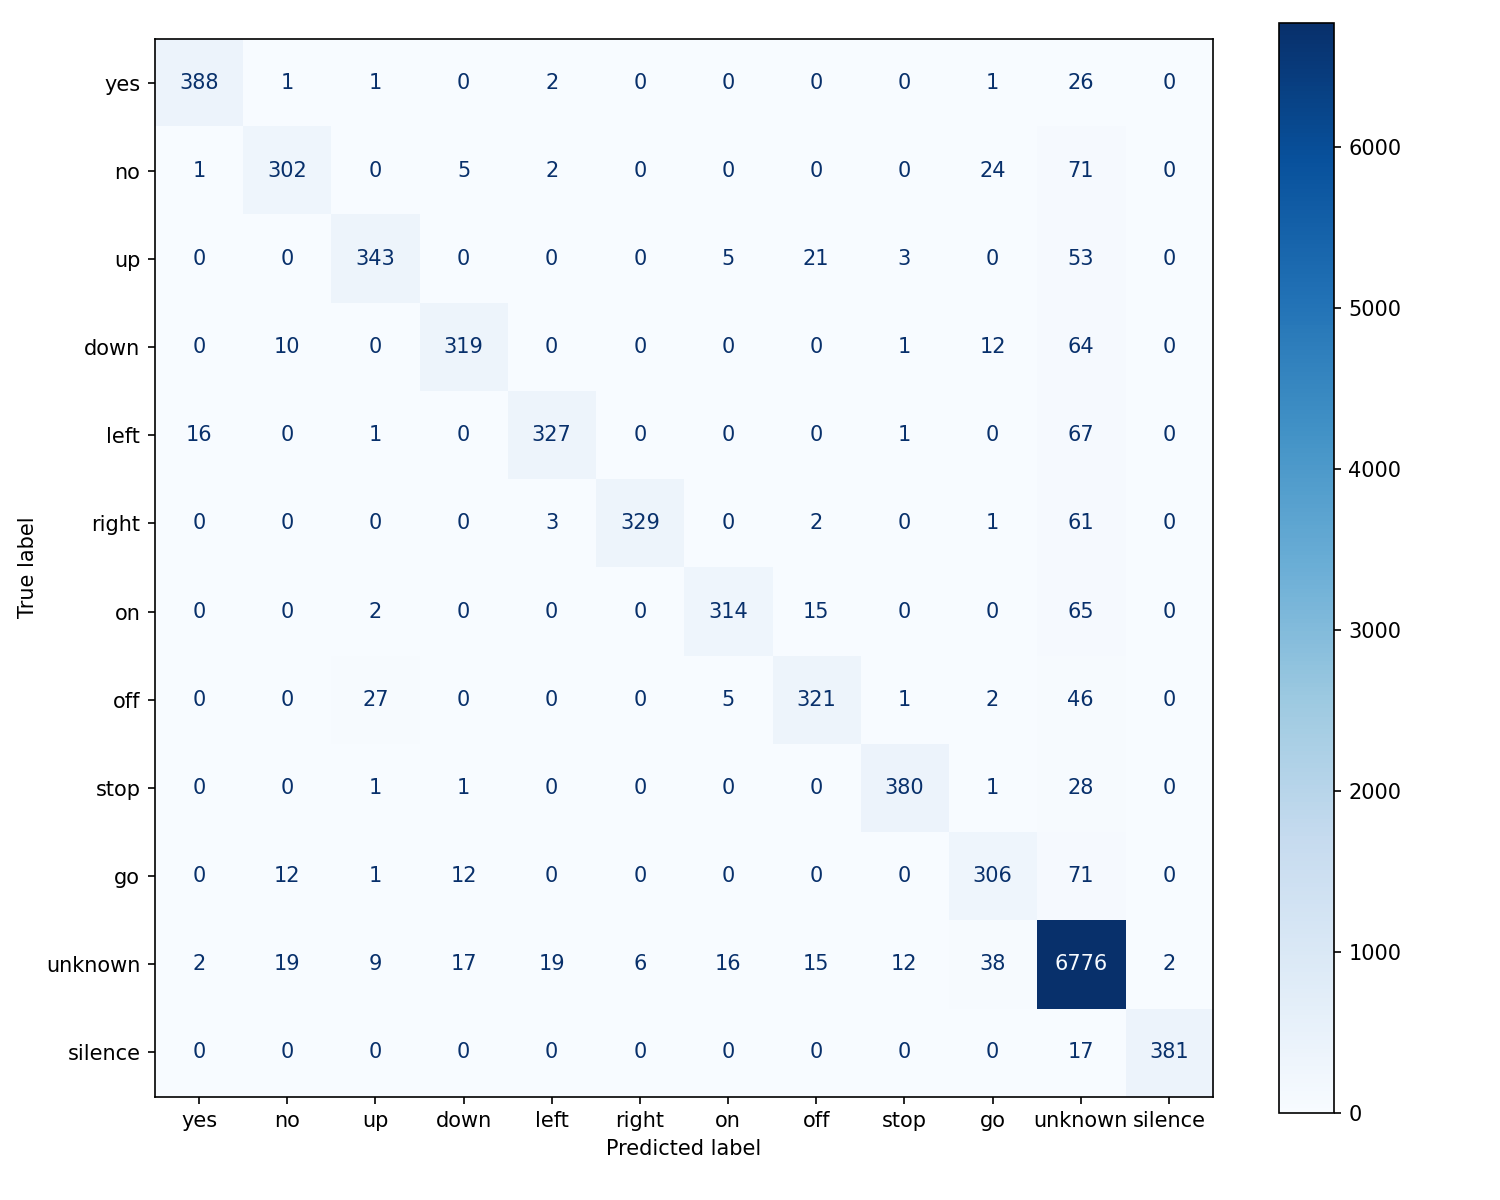
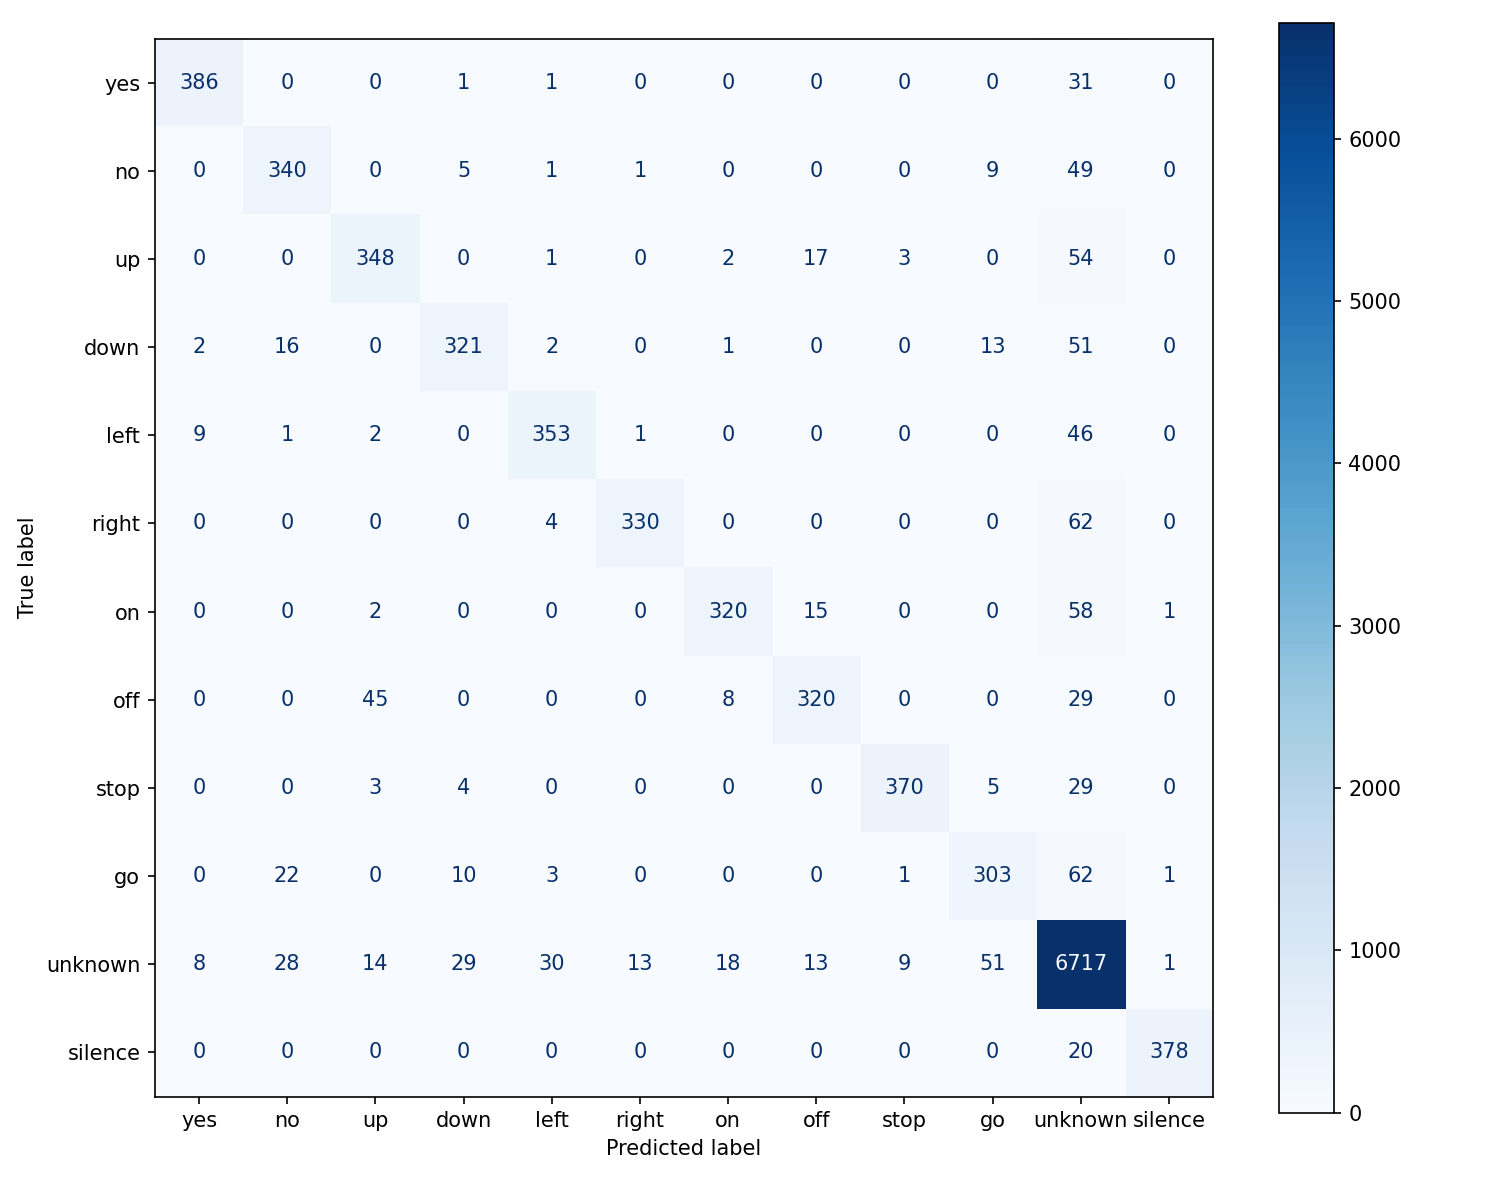
Updated the runner.py to incorpate best delta and best omega

diff --git a/model/.ipynb_checkpoints/runner-checkpoint.py b/model/.ipynb_checkpoints/runner-checkpoint.py
@@ -82,14 +82,28 @@ class SpeechCommandsDataset(Dataset):
         return spec, label
 
 
-def make_loader(split, data_root, filter_method, batch_size, shuffle, device=None, n_mels=40, n_fft=400, omega=1.5, delta=0.02, num_workers=min(4, os.cpu_count())):
+def make_loader(split, data_root, filter_method, batch_size, shuffle, device=None, n_mels=40, n_fft=400, omega=1.5, delta=0.02, num_workers=None):
+    if num_workers is None:
+        slurm_cpus = os.environ.get("SLURM_CPUS_PER_TASK")
+        num_workers = min(4, int(slurm_cpus) - 1 if slurm_cpus else 2)
+        num_workers = max(1, num_workers)
+
     dataset = SpeechCommandsDataset(split, data_root, filter_method, n_mels, n_fft, omega, delta)
 
     def collate_fn(batch):
         specs, labels = zip(*batch)
         return torch.stack(specs), torch.stack(labels)
 
-    return DataLoader(dataset, batch_size=batch_size, shuffle=shuffle, collate_fn=collate_fn, num_workers=os.cpu_count()//2)
+    return DataLoader(
+        dataset, 
+        batch_size=batch_size, 
+        shuffle=shuffle, 
+        collate_fn=collate_fn, 
+        num_workers=num_workers, 
+        persistent_workers=num_workers>0, 
+        pin_memory=True, 
+        prefetch_factor=2 if num_workers > 0 else None
+    )
 
 
 # Scheduler
@@ -103,6 +117,19 @@ def build_scheduler(optimizer, model_type, epochs):
     cosine = CosineAnnealingLR(optimizer, T_max=cosine_epochs, eta_min=1e-7)
     return SequentialLR(optimizer, schedulers=[warmup, cosine], milestones=[warmup_epochs])
 
+def load_best_sweep_params(model_name, data_root="."):
+    csv_path = os.path.join(data_root, "runs", f"sweep_spectral_gating_{model_name}", f"{model_name}_results.csv")
+    if not os.path.exists(csv_path):
+        raise FileNotFoundError(
+            f"No sweep results at {csv_path}. Run sweep.py first"
+        )
+    df = pd.read_csv(csv_path)
+    best = df.loc[df["val_acc"].idxmax()]
+    omega = float(best["omega"])
+    delta = float(best["delta"])
+    print(f"[sweep] Loaded best params for {model_name}: omega = {omega}, delta = {delta}")
+    return omega, delta
+                
 
 # Main runner
 
@@ -124,7 +151,11 @@ def run(model_cls, train_fn, evaluate_fn, args):
     lr = args.lr if args.lr is not None else defaults["lr"]
 
     # Set up output directory (consistent name regardless of eval_only)
-    run_name = f"{args.model}_{args.train_split}_{args.val_split}_{args.filter_method}_seed{args.seed}"
+    if args.filter_method == "spectral_gating":
+        param_tag = f"sg_w{args.omega}_d{args.delta}"
+    else:
+        param_tag = args.filter_method
+    run_name = f"{args.model}_{args.train_split}_{args.val_split}_{param_tag}_seed{args.seed}"
     out_dir = os.path.join("runs", run_name)
     os.makedirs(out_dir, exist_ok=True)
 
@@ -261,17 +292,33 @@ def parse_args():
     parser.add_argument("--clip", type=float, default=1.0)
     parser.add_argument("--data_root", default=".")
     parser.add_argument("--eval_only", action="store_true")
+    parser.add_argument("--omega", type=float, default=None)
+    parser.add_argument("--delta", type=float, default=None)
     return parser.parse_args()
 
 
 def main():
     from train import train
     from evaluate import evaluate
-    from CNN_Model import KeywordSpottingCNN
+    from CNN import KeywordSpottingCNN
     from AST import AST
 
     args = parse_args()
     model_cls = KeywordSpottingCNN if args.model == "cnn" else AST
+
+    for method in ["none", "bandpass"]:
+        args.filter_method = method
+        args.omega, args.delta = 1.5, 2.0
+        run (model_cls, train, evaluate, args)
+
+    # Spectral gating default (pre-tuning)
+    args.filter_method = "spectral_gating"
+    args.omega, args.delta = 1.5, 0.02
+    run(model_cls, train, evaluate, args)
+
+    # Spectral gating tuned (post-tuning)
+    args.filter_method = "spectral_gating"
+    args.omega, args.delta = load_best_sweep_params(args.model, args.data_root)
     run(model_cls, train, evaluate, args)
 
 

diff --git a/model/runner.py b/model/runner.py
@@ -82,14 +82,28 @@ class SpeechCommandsDataset(Dataset):
         return spec, label
 
 
-def make_loader(split, data_root, filter_method, batch_size, shuffle, device=None, n_mels=40, n_fft=400, omega=1.5, delta=0.02, num_workers=min(4, os.cpu_count())):
+def make_loader(split, data_root, filter_method, batch_size, shuffle, device=None, n_mels=40, n_fft=400, omega=1.5, delta=0.02, num_workers=None):
+    if num_workers is None:
+        slurm_cpus = os.environ.get("SLURM_CPUS_PER_TASK")
+        num_workers = min(4, int(slurm_cpus) - 1 if slurm_cpus else 2)
+        num_workers = max(1, num_workers)
+
     dataset = SpeechCommandsDataset(split, data_root, filter_method, n_mels, n_fft, omega, delta)
 
     def collate_fn(batch):
         specs, labels = zip(*batch)
         return torch.stack(specs), torch.stack(labels)
 
-    return DataLoader(dataset, batch_size=batch_size, shuffle=shuffle, collate_fn=collate_fn, num_workers=os.cpu_count()//2)
+    return DataLoader(
+        dataset, 
+        batch_size=batch_size, 
+        shuffle=shuffle, 
+        collate_fn=collate_fn, 
+        num_workers=num_workers, 
+        persistent_workers=num_workers>0, 
+        pin_memory=True, 
+        prefetch_factor=2 if num_workers > 0 else None
+    )
 
 
 # Scheduler
@@ -103,6 +117,19 @@ def build_scheduler(optimizer, model_type, epochs):
     cosine = CosineAnnealingLR(optimizer, T_max=cosine_epochs, eta_min=1e-7)
     return SequentialLR(optimizer, schedulers=[warmup, cosine], milestones=[warmup_epochs])
 
+def load_best_sweep_params(model_name, data_root="."):
+    csv_path = os.path.join(data_root, "runs", f"sweep_spectral_gating_{model_name}", f"{model_name}_results.csv")
+    if not os.path.exists(csv_path):
+        raise FileNotFoundError(
+            f"No sweep results at {csv_path}. Run sweep.py first"
+        )
+    df = pd.read_csv(csv_path)
+    best = df.loc[df["val_acc"].idxmax()]
+    omega = float(best["omega"])
+    delta = float(best["delta"])
+    print(f"[sweep] Loaded best params for {model_name}: omega = {omega}, delta = {delta}")
+    return omega, delta
+                
 
 # Main runner
 
@@ -124,7 +151,11 @@ def run(model_cls, train_fn, evaluate_fn, args):
     lr = args.lr if args.lr is not None else defaults["lr"]
 
     # Set up output directory (consistent name regardless of eval_only)
-    run_name = f"{args.model}_{args.train_split}_{args.val_split}_{args.filter_method}_seed{args.seed}"
+    if args.filter_method == "spectral_gating":
+        param_tag = f"sg_w{args.omega}_d{args.delta}"
+    else:
+        param_tag = args.filter_method
+    run_name = f"{args.model}_{args.train_split}_{args.val_split}_{param_tag}_seed{args.seed}"
     out_dir = os.path.join("runs", run_name)
     os.makedirs(out_dir, exist_ok=True)
 
@@ -261,6 +292,8 @@ def parse_args():
     parser.add_argument("--clip", type=float, default=1.0)
     parser.add_argument("--data_root", default=".")
     parser.add_argument("--eval_only", action="store_true")
+    parser.add_argument("--omega", type=float, default=None)
+    parser.add_argument("--delta", type=float, default=None)
     return parser.parse_args()
 
 
@@ -272,6 +305,20 @@ def main():
 
     args = parse_args()
     model_cls = KeywordSpottingCNN if args.model == "cnn" else AST
+
+    for method in ["none", "bandpass"]:
+        args.filter_method = method
+        args.omega, args.delta = 1.5, 2.0
+        run (model_cls, train, evaluate, args)
+
+    # Spectral gating default (pre-tuning)
+    args.filter_method = "spectral_gating"
+    args.omega, args.delta = 1.5, 0.02
+    run(model_cls, train, evaluate, args)
+
+    # Spectral gating tuned (post-tuning)
+    args.filter_method = "spectral_gating"
+    args.omega, args.delta = load_best_sweep_params(args.model, args.data_root)
     run(model_cls, train, evaluate, args)
 
 
